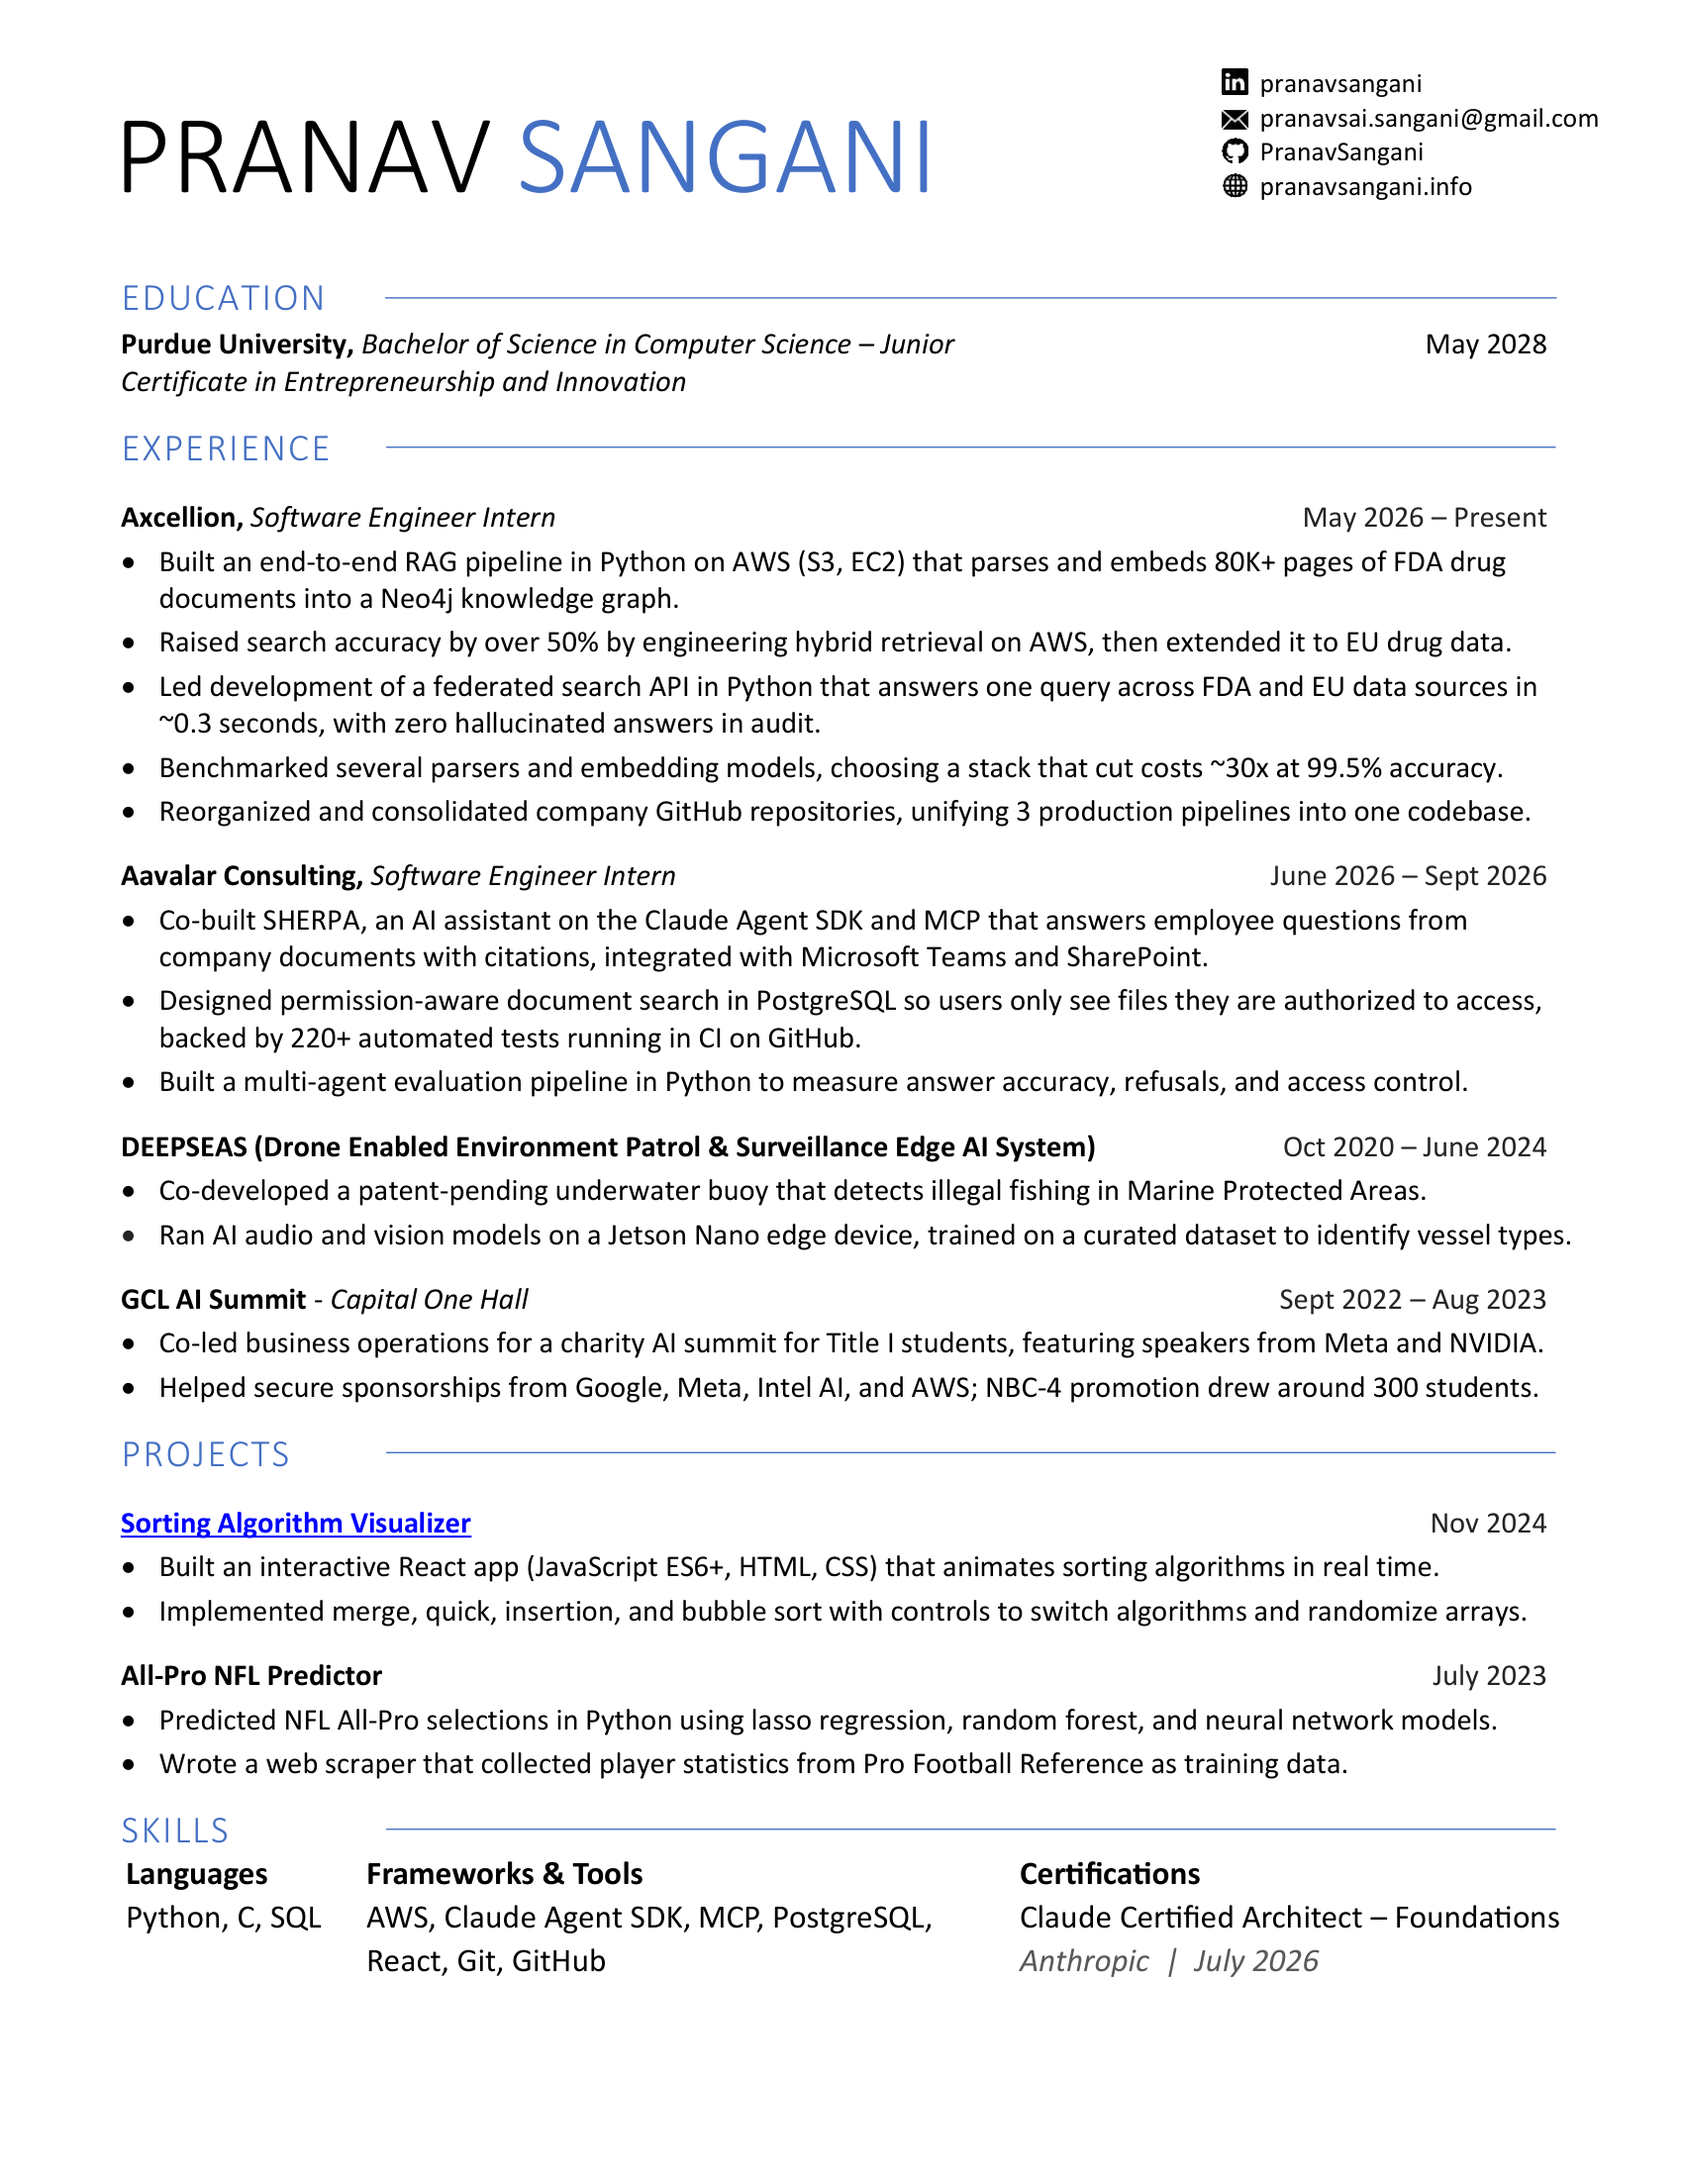
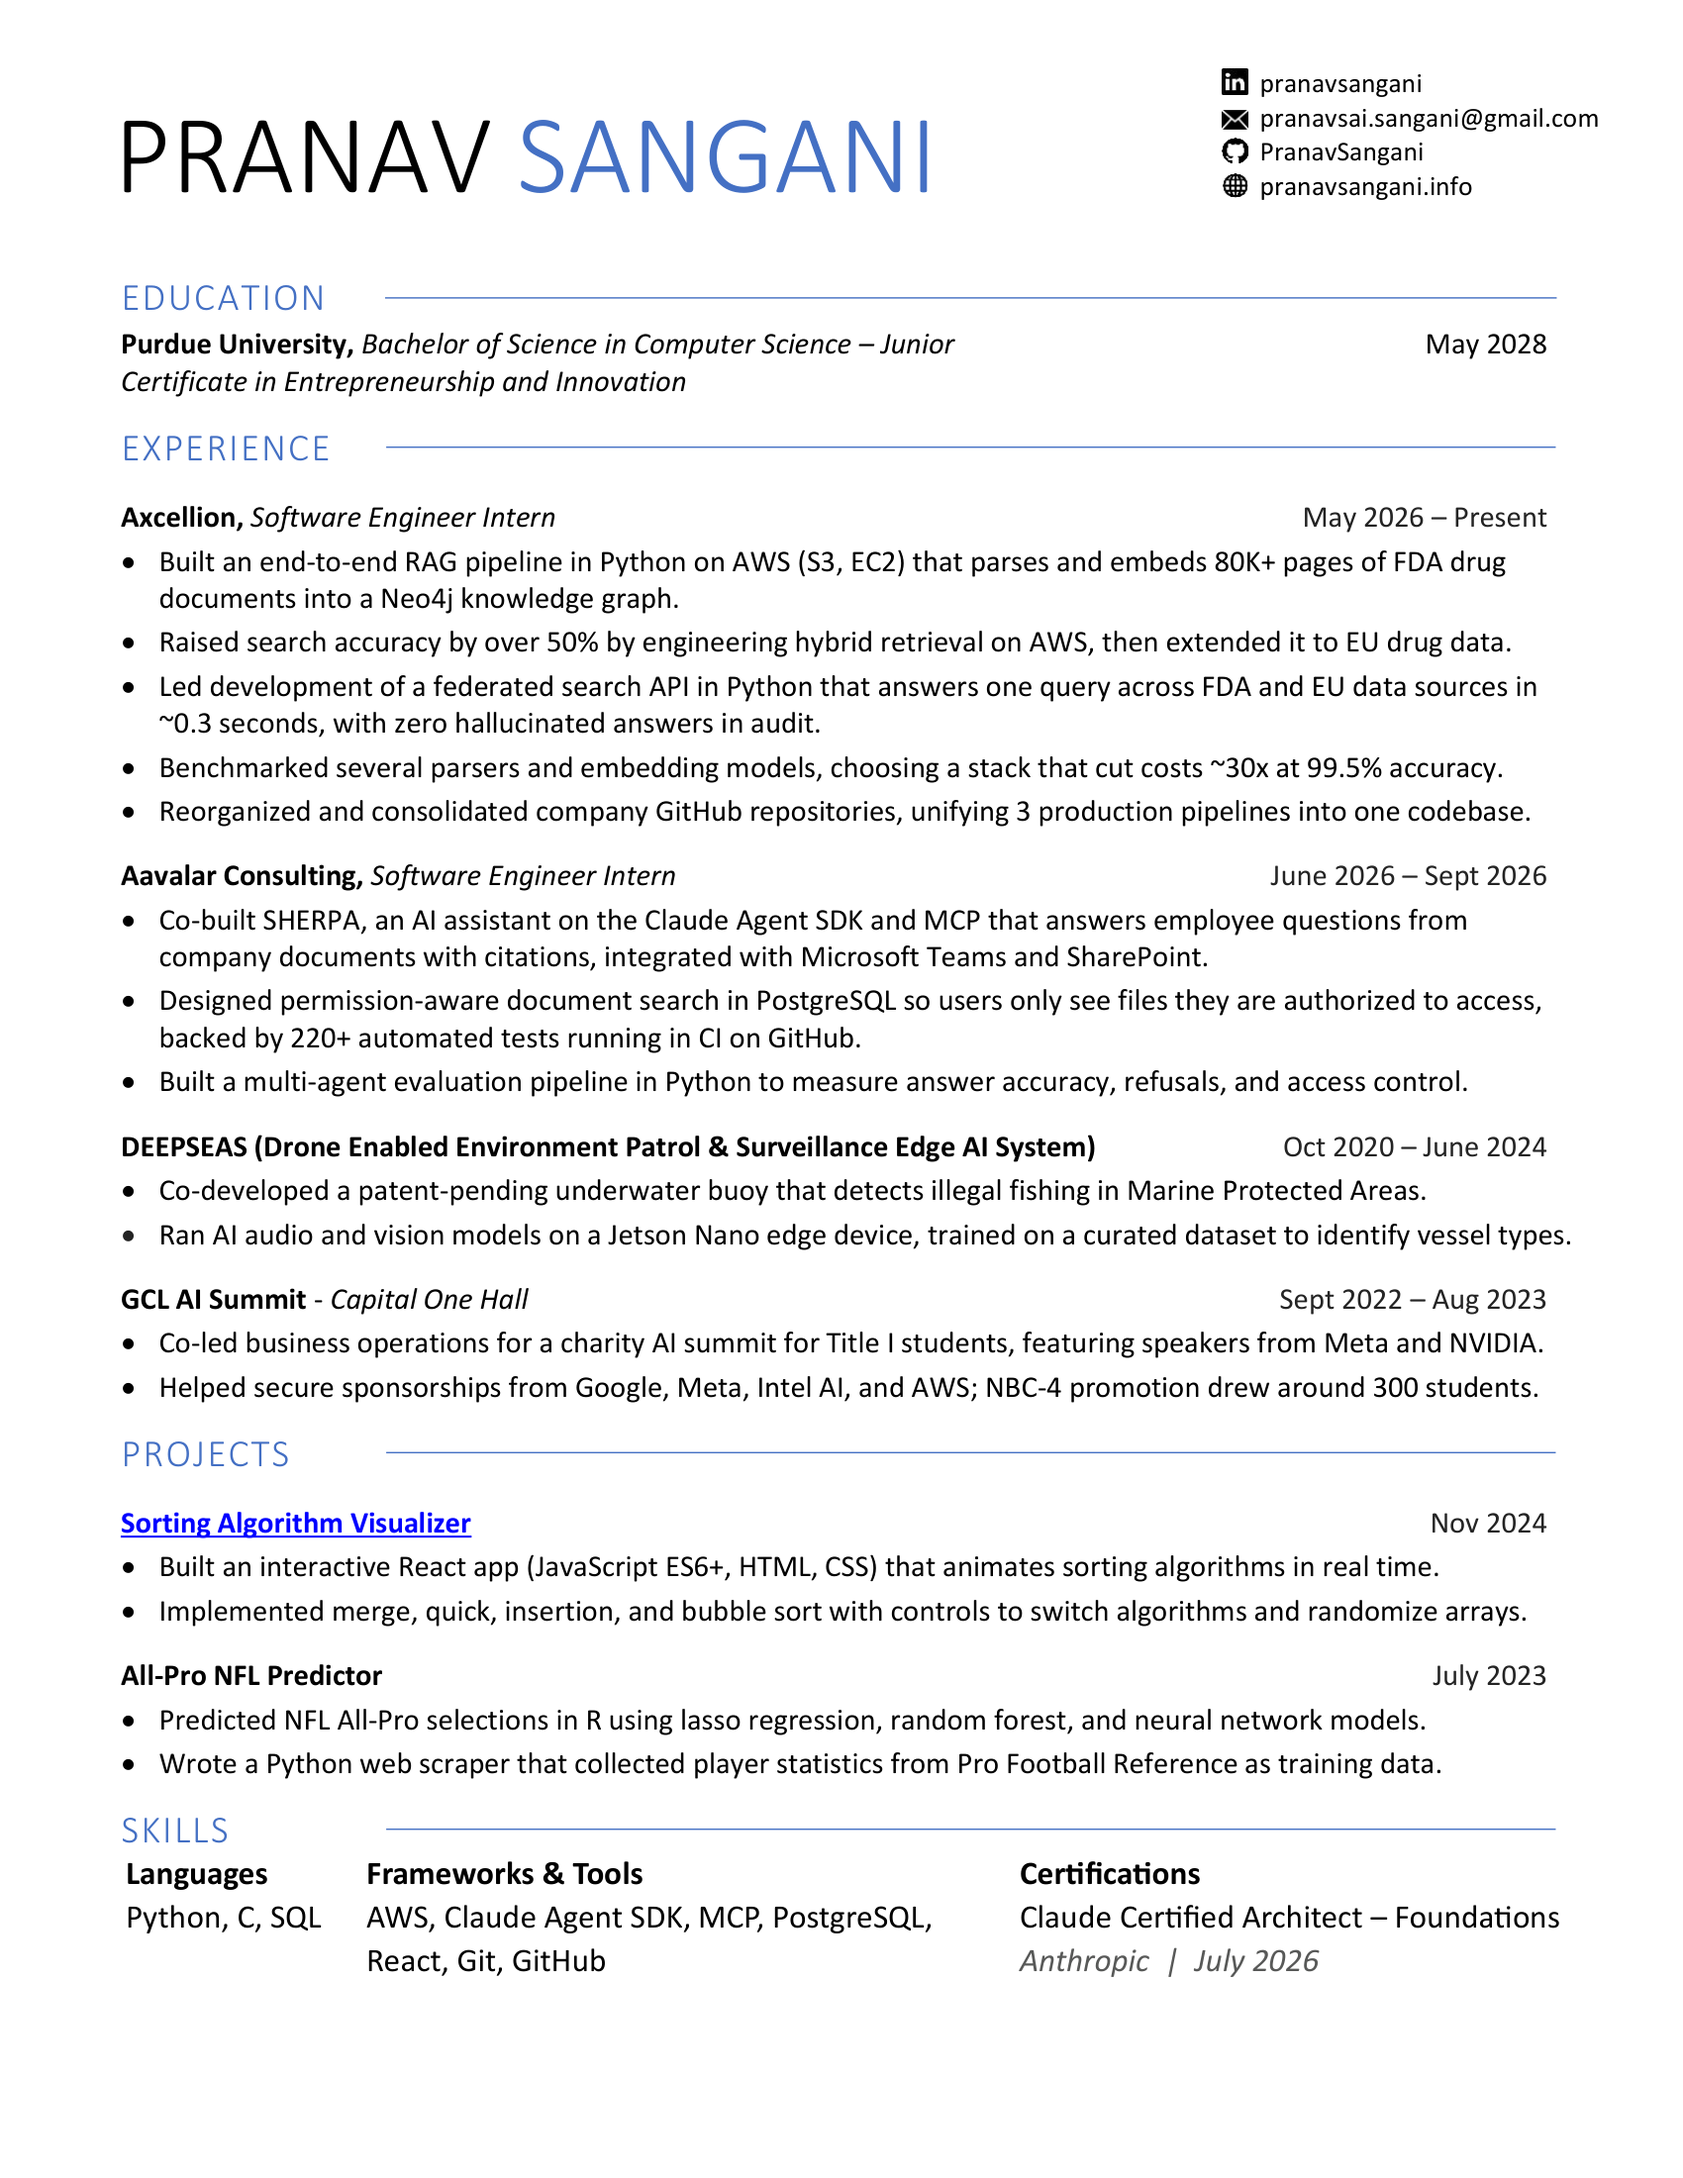
Correct NFL Predictor tech (R + Python scraping); detail Sorting Visualizer card
Also swap in the matching resume PDF and image.

Changed region(s): [[0.1559, 0.7727, 0.8729, 0.8345]]

diff --git a/src/Projects.js b/src/Projects.js
@@ -27,16 +27,16 @@ const PROJECTS = [
     {
         name: 'Sorting Algorithm Visualizer',
         icon: sorting_icon,
-        description: 'Interactive visualizations of classic sorting algorithms.',
-        tech: 'JavaScript',
+        description: 'Interactive React app that animates merge, quick, insertion, and bubble sort in real time.',
+        tech: 'React, JavaScript, HTML, CSS',
         live: 'https://pranavsangani.github.io/SortingAlgorithmVisualizer/',
         source: 'https://github.com/PranavSangani/SortingAlgorithmVisualizer',
     },
     {
         name: 'All-Pro NFL Predictor',
         icon: ie_icon,
-        description: 'Predicts NFL All-Pro selections using lasso regression, random forest, and neural network models trained on scraped Pro Football Reference data.',
-        tech: 'Python, machine learning, web scraping',
+        description: 'Predicts NFL All-Pro selections in R using lasso regression, random forest, and neural network models, trained on player statistics scraped from Pro Football Reference with Python.',
+        tech: 'R (RStudio), Python, machine learning',
     },
     {
         name: 'DEEPSEAS',
